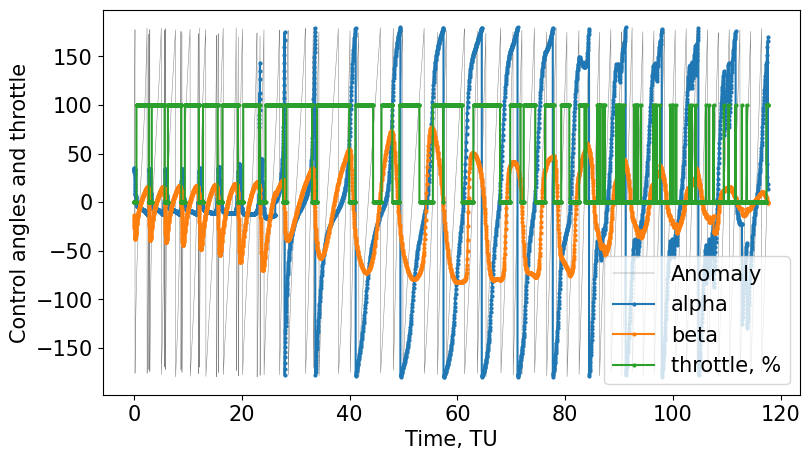
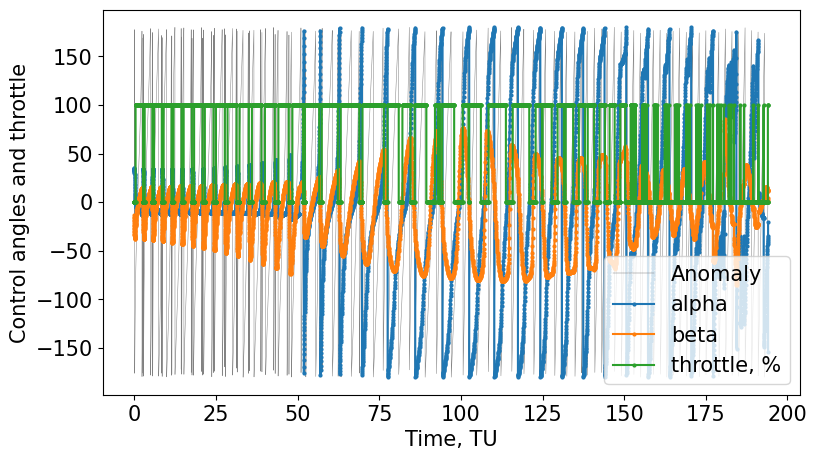
examples updates

diff --git a/examples/test_GTO2GEO_caseB.py b/examples/test_GTO2GEO_caseB.py
@@ -1,5 +1,5 @@
 """
-Test for constructing QLaw object
+test with case B from Varga and Perez, 2016.
 """
 
 
@@ -26,7 +26,7 @@ def test_object():
     tstart = time.time()
     # reference quantities
     MU_EARTH = spice.bodvrd("399", "GM", 1)[1][0]
-    LU = 42164.0
+    LU = 42165.0
     VU = np.sqrt(MU_EARTH / LU)
     TU = LU / VU
 
@@ -46,27 +46,33 @@ def test_object():
     )
     # initial and final elements: [a,e,i,RAAN,omega,ta]
     KEP0 = np.array([
-        (6578+42164)/2/LU,
-        (42164-6578)/(42164+6578),
-        np.deg2rad(28.5),
-        np.deg2rad(10), np.deg2rad(270), np.deg2rad(50)
+        24505.9/LU,
+        0.725,
+        np.deg2rad(7.05),
+        0.0, np.deg2rad(270), 0.0
     ])
     KEPF = np.array([
-        42164/LU,
-        1e-3,
-        np.deg2rad(1e-3),
-        np.deg2rad(10), np.deg2rad(30), np.deg2rad(50)
+        42165.0/LU,
+        0.001,
+        np.deg2rad(0.05),
+        np.deg2rad(10), np.deg2rad(10), np.deg2rad(10),
     ])
     oe0 = pyqlaw.kep2mee_with_a(np.array(KEP0))
     oeT = pyqlaw.kep2mee_with_a(np.array(KEPF))
     print(f"oe0: {oe0}")
     print(f"oeT: {oeT}")
-    woe = [3.0, 1.0, 1.0, 1.0, 1.0]
+    woe = [1.0, 1.0, 1.0, 1.0, 1.0]
 
     # spacecraft parameters
+    MU = 2000
+    tmax_si = 1.0 #0.35   # N
+    isp_si  = 2000   # seconds
+    mdot_si = tmax_si/(isp_si*9.81)  # kg/s
+
+    # non-dimensional quantities
     mass0 = 1.0
-    tmax = 0.0149/2
-    mdot = 0.0031
+    tmax = tmax_si * (1/MU)*(TU**2/(1e3*LU))
+    mdot = np.abs(mdot_si) *(TU/MU)
     tf_max = 10000.0
     t_step = np.deg2rad(2)
 
@@ -88,13 +94,13 @@ def test_object():
     fig4, ax4 = prob.plot_efficiency()
     fig5, ax5 = prob.plot_Q()
 
-    # save
-    fig2.savefig(os.path.join(os.path.dirname(__file__),
-                             "../paper/example_3D_trajectory.png"))
-    fig1.savefig(os.path.join(os.path.dirname(__file__),
-                             "../paper/example_state_history.png"), bbox_inches='tight')
-    fig3.savefig(os.path.join(os.path.dirname(__file__),
-                             "../paper/example_control_history.png"), bbox_inches='tight')
+    # # save
+    # fig2.savefig(os.path.join(os.path.dirname(__file__),
+    #                          "../paper/example_3D_trajectory.png"))
+    # fig1.savefig(os.path.join(os.path.dirname(__file__),
+    #                          "../paper/example_state_history.png"), bbox_inches='tight')
+    # fig3.savefig(os.path.join(os.path.dirname(__file__),
+    #                          "../paper/example_control_history.png"), bbox_inches='tight')
 
     # export state history as initial guess for ICLOCS2
     #prob.save_to_dict('initial_guess_GTO2GEO.json')

diff --git a/pyqlaw/_qlaw.py b/pyqlaw/_qlaw.py
@@ -666,7 +666,7 @@ class QLaw:
             # interpolate orbital elements
             f_a, f_e, f_i, f_r, f_o, f_t = self.interpolate_states(kind=kind)
             if steps is None:
-                steps = min(8000, abs(int(round(self.times[-1]/0.02))))
+                steps = min(8000, abs(int(round(self.times[-1]/0.01))))
                 print(f"Using {steps} steps for evaluation")
             t_evals = np.linspace(self.times[0], self.times[-1], steps)
             cart = np.zeros((6,steps))

diff --git a/examples/test_solve_mee_interplanetary.py b/examples/test_solve_mee_interplanetary.py
@@ -38,7 +38,7 @@ def test_object():
     tmax = 1e-2
     mdot = 1e-3
     tf_max = 2000.0
-    t_step = 0.1
+    t_step = 0.01
     # set problem
     prob.set_problem(oe0, oeT, mass0, tmax, mdot, tf_max, t_step, woe=woe)
     prob.pretty()
